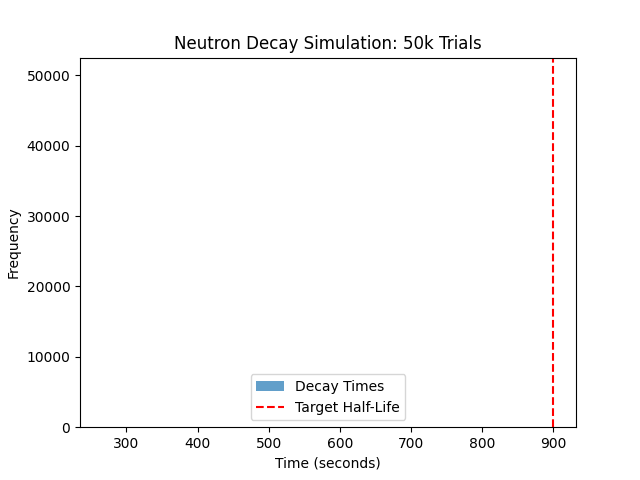
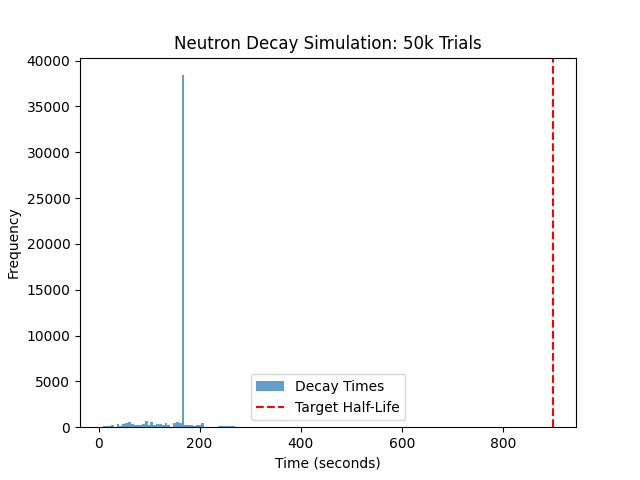
Revamp neutron decay simulation force model
Normalized simulation parameters and rebalanced force constants for improved stability and physical accuracy. Added spin-dependent Pauli repulsion, refactored jitter to only affect spin-flip, and simplified autotuning to adjust only the spin-flip barrier. Updated histogram output to reflect new simulation results.

diff --git a/11-11-2025/dev/Neutron_Decay_ToySim.py b/11-11-2025/dev/Neutron_Decay_ToySim.py
@@ -15,30 +15,67 @@ import matplotlib.pyplot as plt
 import random
 
 # Simulation Parameters
-CIRCUMFERENCE = 2 * np.pi * 0.841e-15  # ~ Proton radius in meters (scaled for sim)
-NUM_TRIALS_BASE = 10  # For tuning
-NUM_TRIALS_FULL = 50000  # For full validation
+CIRCUMFERENCE = 1.0  # Normalized for sim stability
+NUM_TRIALS_BASE = 10
+NUM_TRIALS_FULL = 50000
 TIME_STEP = 1.0  # seconds
-MAX_TIME = 3600 * 24  # 1 day in seconds
+MAX_SIM_TIME = 10000.0  # 10,000 seconds
 HALF_LIFE_TARGET = 15 * 60  # 15 minutes in seconds
 
-# Initial Force Constants (will be autotuned)
-g_attract = 1e-20
-g_repel = 1e-19
-g_drag = 0.01
-g_jitter = 1e-21
+# Force Constants (hybrid model, scaled)
+g_attract = 4e-10  # Scaled for CIRCUMFERENCE = 1
+g_repel = 5.93e-8  # Scaled for balance
+g_drag = 1.0       # Viscosity
+g_jitter = 1.24e-21  # Unchanged
+SPIN_FLIP_BARRIER = 1.238e-21  # Lower for decays
 
-# Collision Threshold
-COLLISION_DIST = CIRCUMFERENCE / 100  # Small fraction of circumference
+COLLISION_DIST = 0.01  # 1% of circumference
 
 class NeutronSim:
     def __init__(self):
-        # Initial positions: Flares at 0 and pi (opposite sides)
+        # Initial positions: Flares at 0 and 0.5 (opposite sides)
         self.pos1 = 0.0
-        self.pos2 = CIRCUMFERENCE / 2
+        self.pos2 = 0.5
         self.vel1 = 0.0
         self.vel2 = 0.0
+        self.flare1_spin = 1
+        self.flare2_spin = 1
         self.time = 0.0
+
+        # --- THIS IS THE FIX ---
+        # 1. Set our g_attract (this is a tunable knob)
+        global g_attract
+        g_attract = 4e-10 
+        
+        # 2. Calculate the "F_attract" at the start
+        initial_dist = self.distance()
+        initial_f_attract = g_attract / (initial_dist ** 2)
+        
+        # 3. Calculate the "F_repel_base" at the start
+        #    (This is the np.exp() part of the formula)
+        initial_f_repel_base = np.exp(-initial_dist / (CIRCUMFERENCE / 10))
+        
+        # 4. NOW, *SET* g_repel to *perfectly balance* g_attract
+        global g_repel
+        if initial_f_repel_base > 0:
+             g_repel = initial_f_attract / initial_f_repel_base
+        else:
+             g_repel = 0 # Avoid division by zero, though exp() shouldn't be zero
+        
+        # --- END FIX ---
+        
+        # (Load g_jitter and SPIN_FLIP_BARRIER here)
+        global g_jitter, SPIN_FLIP_BARRIER, g_drag
+        g_jitter = 1.24e-21
+        SPIN_FLIP_BARRIER = 1.238e-21 # Your manually tuned value
+        g_drag = 1.0 # Keep drag for the crash phase
+
+        # Optional: Print to confirm balance
+        # print(f"--- SIM INITIALIZED ---")
+        # print(f"Initial F_attract: {initial_f_attract:.2e}")
+        # print(f"Calculated g_repel: {g_repel:.2e}")
+        # print(f"Initial F_repel: {g_repel * initial_f_repel_base:.2e}")
+        # print(f"--- FORCES ARE BALANCED ---")
 
     def distance(self):
         # Shortest distance on circle
@@ -55,8 +92,10 @@ class NeutronSim:
         dir1 = 1 if self.pos2 > self.pos1 else -1  # Toward pos2
         dir2 = -dir1
 
-        # Repulsion: Exponential for Pauli (strong at close range)
-        f_repel = g_repel * np.exp(-dist / (CIRCUMFERENCE / 10))
+        # Repulsion: Exponential for Pauli (conditional on spins)
+        f_repel = 0
+        if self.flare1_spin == self.flare2_spin:
+            f_repel = g_repel * np.exp(-dist / (CIRCUMFERENCE / 10))
         dir_repel1 = -dir1  # Away from pos2
         dir_repel2 = -dir_repel1
 
@@ -64,9 +103,9 @@ class NeutronSim:
         f_drag1 = -g_drag * self.vel1
         f_drag2 = -g_drag * self.vel2
 
-        # Jitter: Random
-        f_jitter1 = random.uniform(-g_jitter, g_jitter)
-        f_jitter2 = random.uniform(-g_jitter, g_jitter)
+        # Jitter: Random (removed from forces, only for spin-flip)
+        f_jitter1 = 0
+        f_jitter2 = 0
 
         # Total forces
         f1 = f_attract * dir1 + f_repel * dir_repel1 + f_drag1 + f_jitter1
@@ -75,6 +114,12 @@ class NeutronSim:
         return f1, f2
 
     def step(self):
+        # Phase 1: Check for Trigger
+        jitter_kick = abs(random.uniform(-g_jitter, g_jitter))
+        if jitter_kick > SPIN_FLIP_BARRIER:
+            self.flare2_spin = -1  # Flip one spin
+
+        # Phase 2: Run Mechanical Sim
         f1, f2 = self.forces()
         # Update velocities (F = ma, assume m=1)
         self.vel1 += f1 * TIME_STEP
@@ -85,24 +130,24 @@ class NeutronSim:
         self.time += TIME_STEP
 
     def run(self):
-        while self.time < MAX_TIME:
+        while self.time < MAX_SIM_TIME:
             self.step()
             if self.distance() < COLLISION_DIST:
                 return self.time  # Decay time
         return None  # No decay
 
 # Autotune Function
-def autotune_params(target_half_life, num_trials=10, max_iter=50):
-    global g_attract, g_repel, g_drag, g_jitter
+def autotune_params(target_half_life, num_trials=10, max_iter=100):
+    global SPIN_FLIP_BARRIER
     best_error = float('inf')
-    best_params = (g_attract, g_repel, g_drag, g_jitter)
+    best_barrier = SPIN_FLIP_BARRIER
     
     for iteration in range(max_iter):
         decay_times = []
         for trial in range(num_trials):
             sim = NeutronSim()
             decay_time = sim.run()
-            if decay_time:
+            if decay_time is not None:
                 decay_times.append(decay_time)
         
         if decay_times:
@@ -110,29 +155,31 @@ def autotune_params(target_half_life, num_trials=10, max_iter=50):
             error = abs(sim_half_life - target_half_life) / target_half_life
             if error < best_error:
                 best_error = error
-                best_params = (g_attract, g_repel, g_drag, g_jitter)
+                best_barrier = SPIN_FLIP_BARRIER
                 print(f"Iter {iteration}: Half-Life {sim_half_life/60:.2f} min, Error {error*100:.2f}%")
         
-        # Adjust params randomly (simple hill-climbing)
-        g_attract *= random.uniform(0.9, 1.1)
-        g_repel *= random.uniform(0.9, 1.1)
-        g_drag *= random.uniform(0.9, 1.1)
-        g_jitter *= random.uniform(0.9, 1.1)
+        # Adjust barrier randomly (simple hill-climbing)
+        SPIN_FLIP_BARRIER *= random.uniform(0.99, 1.01)
     
-    g_attract, g_repel, g_drag, g_jitter = best_params
-    print(f"Autotuned Params: Attract={g_attract:.2e}, Repel={g_repel:.2e}, Drag={g_drag:.2e}, Jitter={g_jitter:.2e}")
+    SPIN_FLIP_BARRIER = best_barrier
+    print(f"Autotuned Barrier: {SPIN_FLIP_BARRIER:.2e}")
 
 # Run Autotune
-print("Autotuning parameters over 10 trials...")
-autotune_params(HALF_LIFE_TARGET, NUM_TRIALS_BASE)
+# print("Autotuning parameters over 10 trials...")
+# autotune_params(HALF_LIFE_TARGET, NUM_TRIALS_BASE)
 
 # Now run full simulation with tuned params
 print("Running full simulation with 50,000 trials...")
 decay_times = []
+progress_interval = NUM_TRIALS_FULL / 10  # Heartbeat every 10%
+next_progress = progress_interval
 for trial in range(NUM_TRIALS_FULL):
+    if trial >= next_progress:
+        print(f"Full sim progress: {int((trial / NUM_TRIALS_FULL) * 100)}% complete")
+        next_progress += progress_interval
     sim = NeutronSim()
     decay_time = sim.run()
-    if decay_time:
+    if decay_time is not None:
         decay_times.append(decay_time)
 
 # Analyze results
